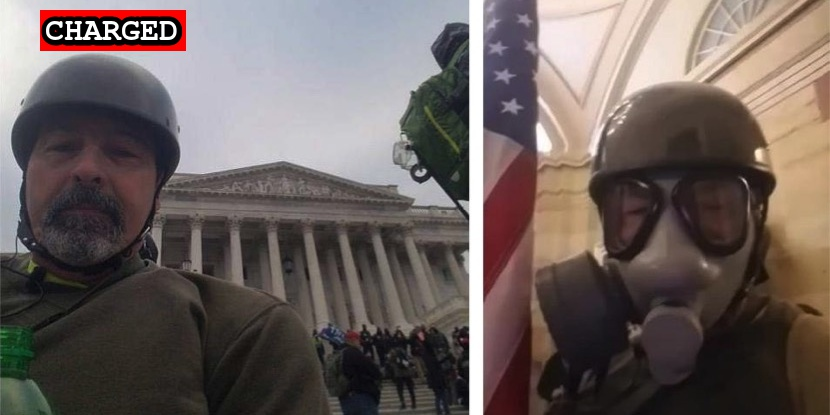
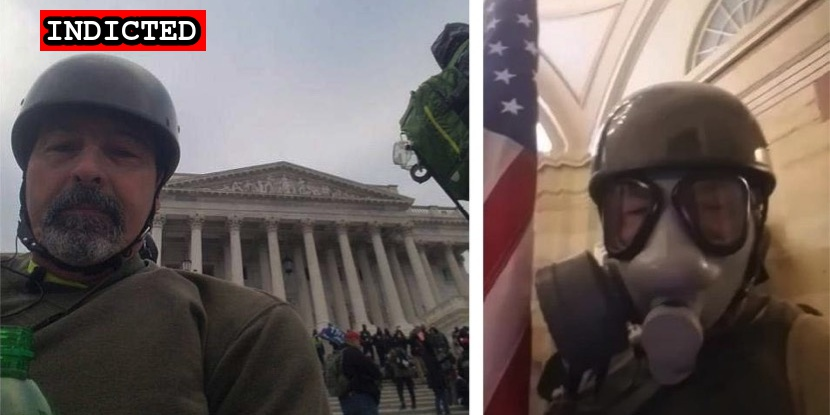
Loganbill indictment

Changed region(s): [[0.0301, 0.0, 0.2711, 0.1446]]

diff --git a/docs/_suspects/matthew-loganbill.md b/docs/_suspects/matthew-loganbill.md
@@ -4,13 +4,13 @@ lastName: Loganbill
 hashtag: MatthewLoganbill
 aka:
 residence: Missouri
-status: Charged
+status: Indicted
 date: 2021-03-15
 charged: 2021-03-15
-indicted:
-convicted: 
-sentenced: 
-dismissed: 
+indicted: 2021-09-22
+convicted:
+sentenced:
+dismissed:
 deceased:
 plea_hearing:
 sentencing:
@@ -36,6 +36,8 @@ videos:
 charges:
 sentence:
 ---
+
 - [News Report](https://www.kshb.com/news/crime/missouri-firearms-store-owner-charged-in-connection-to-capitol-riot)
 - [Statement of Facts](https://www.justice.gov/usao-dc/case-multi-defendant/file/1380626/download)
 - [Complaint](https://www.justice.gov/usao-dc/case-multi-defendant/file/1380631/download)
+- [Indictment](https://extremism.gwu.edu/sites/g/files/zaxdzs2191/f/Matthew%20Loganbill%20Indictment.pdf)

diff --git a/docs/_suspects/matthew-martin.md b/docs/_suspects/matthew-martin.md
@@ -39,3 +39,4 @@ sentence:
 - [News Report](https://www.santafenewmexican.com/news/local_news/santa-fe-man-charged-in-capitol-riot/article_a41068ac-a3af-11eb-a485-9bd760829606.html)
 - [Complaint](https://www.justice.gov/usao-dc/case-multi-defendant/file/1388941/download)
 - [Statement of Facts](https://www.justice.gov/usao-dc/case-multi-defendant/file/1388941/download)
+- [Information](https://extremism.gwu.edu/sites/g/files/zaxdzs2191/f/Matthew%20Martin%20Information.pdf)

diff --git a/docs/_suspects/dominick-madden.md b/docs/_suspects/dominick-madden.md
@@ -40,3 +40,4 @@ sentence:
 - [FBI Raid](https://abc7ny.com/local-dc-riot-arrests-nyc-sanitation-worker-arrested/9900913/)
 - [Statement of Facts](https://www.justice.gov/opa/page/file/1358876/download)
 - [Complaint](https://www.justice.gov/opa/page/file/1359536/download)
+- [Information](https://extremism.gwu.edu/sites/g/files/zaxdzs2191/f/Domenick%20Madden%20Information.pdf)
